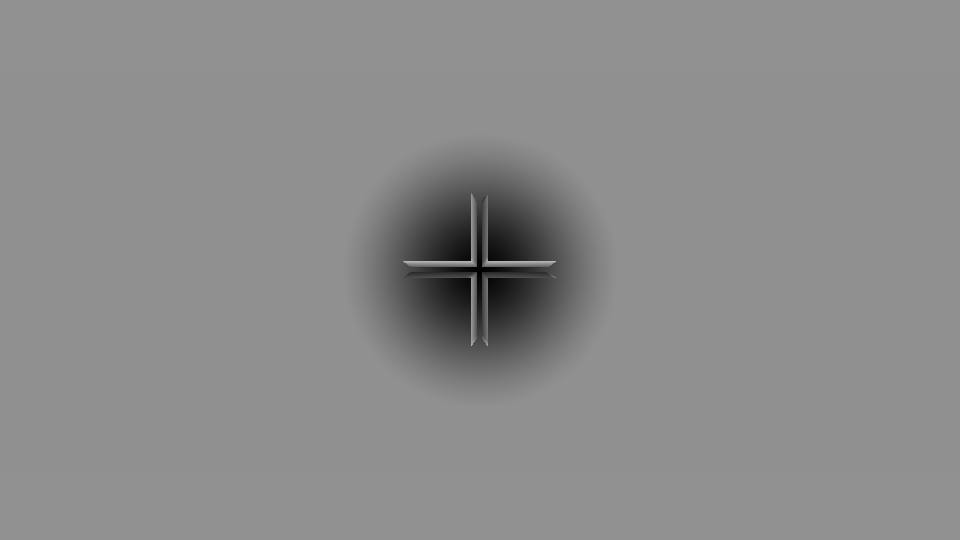
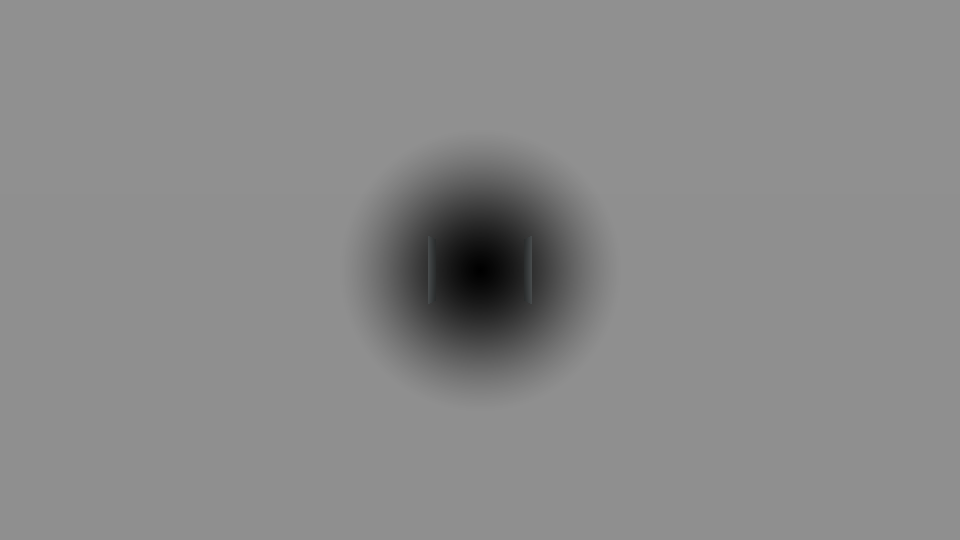
On peut taper le boss + Boutons de pause

Changed region(s): [[0.4062, 0.3556, 0.5938, 0.6222]]

diff --git a/core/scene1.py b/core/scene1.py
@@ -639,20 +639,8 @@ def init():
                 [PurePath("images/interface/boutonpause.png")],
                 [PurePath("images/interface/boutonpause.png")],
                 [PurePath("images/interface/boutonpause.png")]
-            ], "play" : [
-                [PurePath("images/interface/boutonplay.png")],
-                [PurePath("images/interface/boutonplay.png")],
-                [PurePath("images/interface/boutonplay.png")],
-                [PurePath("images/interface/boutonplay.png")],
-                [PurePath("images/interface/boutonplay.png")]
             ]},
             {"pause" : [
-                [False, 0, 5],
-                [False, 0, 5],
-                [False, 0, 5],
-                [False, 0, 5],
-                [False, 0, 5]
-            ], "play" : [
                 [False, 0, 5],
                 [False, 0, 5],
                 [False, 0, 5],
@@ -877,6 +865,62 @@ def init():
                 key : [True, 1] for key in [namefond for namefond in os.listdir(PurePath("level/elements/long_ends"))]
             },
             "idle"
+        ),
+        "play" : Bouton(
+            { "play" : [
+                [PurePath("images/interface/boutonplay.png")],
+                [PurePath("images/interface/boutonplay.png")],
+                [PurePath("images/interface/boutonplay.png")],
+                [PurePath("images/interface/boutonplay.png")],
+                [PurePath("images/interface/boutonplay.png")]
+            ]},
+            {"play" : [
+                [False, 0, 5],
+                [False, 0, 5],
+                [False, 0, 5],
+                [False, 0, 5],
+                [False, 0, 5]
+            ]},
+            "play"
+        ),
+        "decompteplay" : Actif(
+            {"anim1" : [PurePath("images/interface/animation/decompteplay/" + format(i, '05d') + ".png") for i in range(45)]},
+            {"anim1" : [False, 1]},
+            "anim1"
+        ),
+        "retour" : Bouton(
+            { "anim1" : [
+                [PurePath("images/interface/flecheretour.png")],
+                [PurePath("images/interface/flecheretour.png")],
+                [PurePath("images/interface/flecheretour.png")],
+                [PurePath("images/interface/flecheretour.png")],
+                [PurePath("images/interface/flecheretour.png")]
+            ]},
+            {"anim1" : [
+                [False, 0, 5],
+                [False, 0, 5],
+                [False, 0, 5],
+                [False, 0, 5],
+                [False, 0, 5]
+            ]},
+            "anim1"
+        ),
+        "recommencer" : Bouton(
+            { "anim1" : [
+                [PurePath("images/interface/Fleche_Recommencer.png")],
+                [PurePath("images/interface/Fleche_Recommencer.png")],
+                [PurePath("images/interface/Fleche_Recommencer.png")],
+                [PurePath("images/interface/Fleche_Recommencer.png")],
+                [PurePath("images/interface/Fleche_Recommencer.png")]
+            ]},
+            {"anim1" : [
+                [False, 0, 5],
+                [False, 0, 5],
+                [False, 0, 5],
+                [False, 0, 5],
+                [False, 0, 5]
+            ]},
+            "anim1"
         )
         })
 
@@ -941,12 +985,16 @@ def init():
             "score" : [10, 40],
             "numscore" : [10, 10],
             "combo" : [474, 40],
+            "decompteplay" : [420, 199],
             "pause" : [890, 0],
             "texthit" : [120, 220],
             "impacthaut" : [75, 65],
             "impactbas" : [75, 260],
             "longendcurseurhaut" : [176 - objects["longendcurseurhaut"].sprites["idle"][0].get_width() / 2, 187 - objects["longendcurseurhaut"].sprites["idle"][0].get_height() / 2],
-            "longendcurseurbas" : [176 - objects["longendcurseurbas"].sprites["idle"][0].get_width() / 2, 367 - objects["longendcurseurbas"].sprites["idle"][0].get_height() / 2]
+            "longendcurseurbas" : [176 - objects["longendcurseurbas"].sprites["idle"][0].get_width() / 2, 367 - objects["longendcurseurbas"].sprites["idle"][0].get_height() / 2],
+            "play" : [445, 235],
+            "retour" : [358, 235],
+            "recommencer" : [532, 235]
         }})
 
     
@@ -984,6 +1032,10 @@ def init():
     objects["ligne"].visible = False
     objects["curseur"].visible = False
     objects["gameoverscreen"].visible = False
+    objects["play"].visible = False
+    objects["decompteplay"].visible = False
+    objects["retour"].visible = False
+    objects["recommencer"].visible = False
 
     # Reset des stats du perso
     stats_perso.update({
@@ -1291,6 +1343,10 @@ def init():
 
 def loopevent(event):
     global calques, initcalques, camera, fond, pause, gameovertimer, pos_pers, gameoverbool, longboss, longphase2
+    if event.type == objects["decompteplay"].END_ANIMATION and objects["decompteplay"].visible:
+        objects["decompteplay"].visible = False
+        pygame.mixer.music.unpause()
+        pause = False
     if event.type == KEYDOWN and event.key in game.boutons["haut"] and gameovertimer == 0 and objects["curseur"].visible == False and not pause : # and levelelements["phase"][phaseindex-1][0] == "phase1":
         pos_pers = 0
         objects["impacthaut"].changeAnimation("anim1")
@@ -1490,20 +1546,34 @@ def loopevent(event):
         
         
     if (event.type == objects["pause"].CLICKED or (event.type == KEYDOWN and event.key == K_ESCAPE))\
-        and gameovertimer == 0:
-        if not pause:
-            objects["pause"].imageCourante = 0
-            objects["pause"].cptframe = 0
+        and gameovertimer == 0 and not pause:
+            game.selectsound.play()
             objects["fondpause"].visible = True
+            objects["play"].visible = True
+            objects["retour"].visible = True
+            objects["recommencer"].visible = True
             pygame.mixer.music.pause()
             pause = True
             pygame.mouse.set_visible(True)
-        else:
-            objects["pause"].imageCourante = 0
-            objects["pause"].cptframe = 0
+    elif (event.type == objects["play"].CLICKED or (event.type == KEYDOWN and event.key == K_ESCAPE))\
+        and gameovertimer == 0 and pause:
+            game.selectsound.play()
             objects["fondpause"].visible = False
-            pygame.mixer.music.unpause()
-            pause = False
+            objects["play"].visible = False
+            objects["retour"].visible = False
+            objects["recommencer"].visible = False
+            objects["decompteplay"].visible = True
+            objects["decompteplay"].changeAnimation("anim1")
+
+    if event.type == objects["retour"].CLICKED and gameovertimer == 0 and objects["retour"].visible:
+        game.selectsound.play()
+        pygame.mixer.music.unload()
+        game.scenecourante = "selectionniveau"
+    if event.type == objects["recommencer"].CLICKED and gameovertimer == 0 and objects["recommencer"].visible:
+        game.selectsound.play()
+        pygame.mixer.music.unload()
+        init()
+            
     
     if (event.type == KEYDOWN and event.key == K_a):
             pygame.mixer.music.stop()
@@ -1879,18 +1949,24 @@ def loopbeforeupdate():
 def loopafterupdate():
     global pause, gameovertimer, camera, collidephase3, collidemortphase3, collideorbephase3, collidepiquephase3, collidegroundphase3, gameoverbool, longboss, vitessecam
     objects["pause"].activate(game.displaylist["pause"])
+    if objects["play"].visible:
+        objects["play"].activate(game.displaylist["play"])
+    if objects["retour"].visible:
+        objects["retour"].activate(game.displaylist["retour"])
+    if objects["recommencer"].visible:
+        objects["recommencer"].activate(game.displaylist["recommencer"])
 
     for element in game.displaylist:
         if element in objects and isinstance(objects[element], Actif) and "boss" in objects[element].tags:
             if "hit" in objects[element].tags:
-                calques[3][element][0] = ((float(element[4:]))*vitessecam/1000) - ((pygame.mixer.music.get_pos()-float(element[4:]))) + 265
+                calques[3][element][0] = ((float(element[4:]))*vitessecam/1000) - ((pygame.mixer.music.get_pos()-float(element[4:]))) + 200
             elif "bosslong" in objects[element].tags:
                 if pygame.mixer.music.get_pos()-float(element[4:]) < 0:
-                    calques[3][element][0] = ((float(element[4:]))*vitessecam/1000) - ((pygame.mixer.music.get_pos()-float(element[4:]))) + 265
+                    calques[3][element][0] = ((float(element[4:]))*vitessecam/1000) - ((pygame.mixer.music.get_pos()-float(element[4:]))) + 200
                 elif pygame.mixer.music.get_pos()-float(objects[element].tags[-1]) < 0:
                     print("dans le boss")
                     objects[element].suivreScene = True
-                    calques[3][element][0] = 265
+                    calques[3][element][0] = 200
                 else:
                     longboss = False
                     objects[element].tags.insert(0, "finlong")
